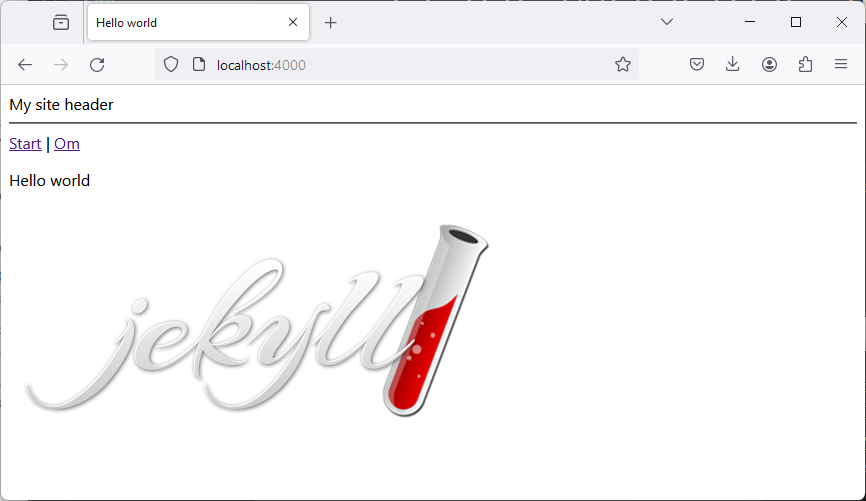
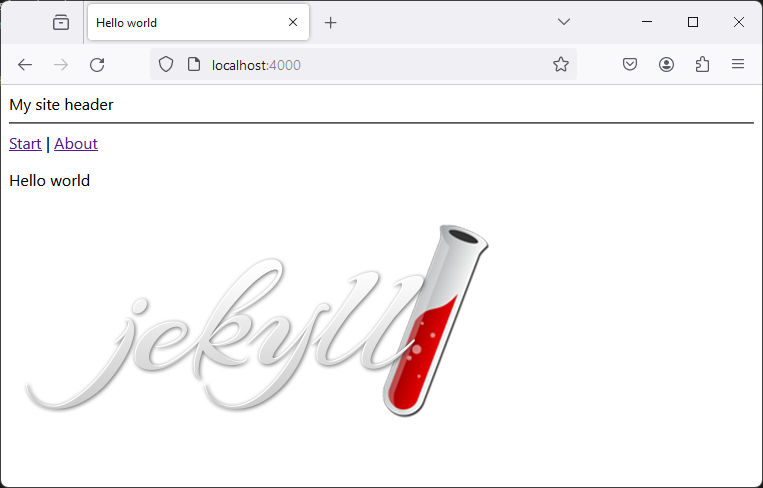
minors

diff --git a/app/_includes/header.html b/app/_includes/header.html
@@ -3,5 +3,5 @@
 </header>
 <hr>
 <nav>
-    <a href="/">Start</a> | <a href="/about">Om</a>
+    <a href="/">Start</a> | <a href="/about">About</a>
  </nav>
